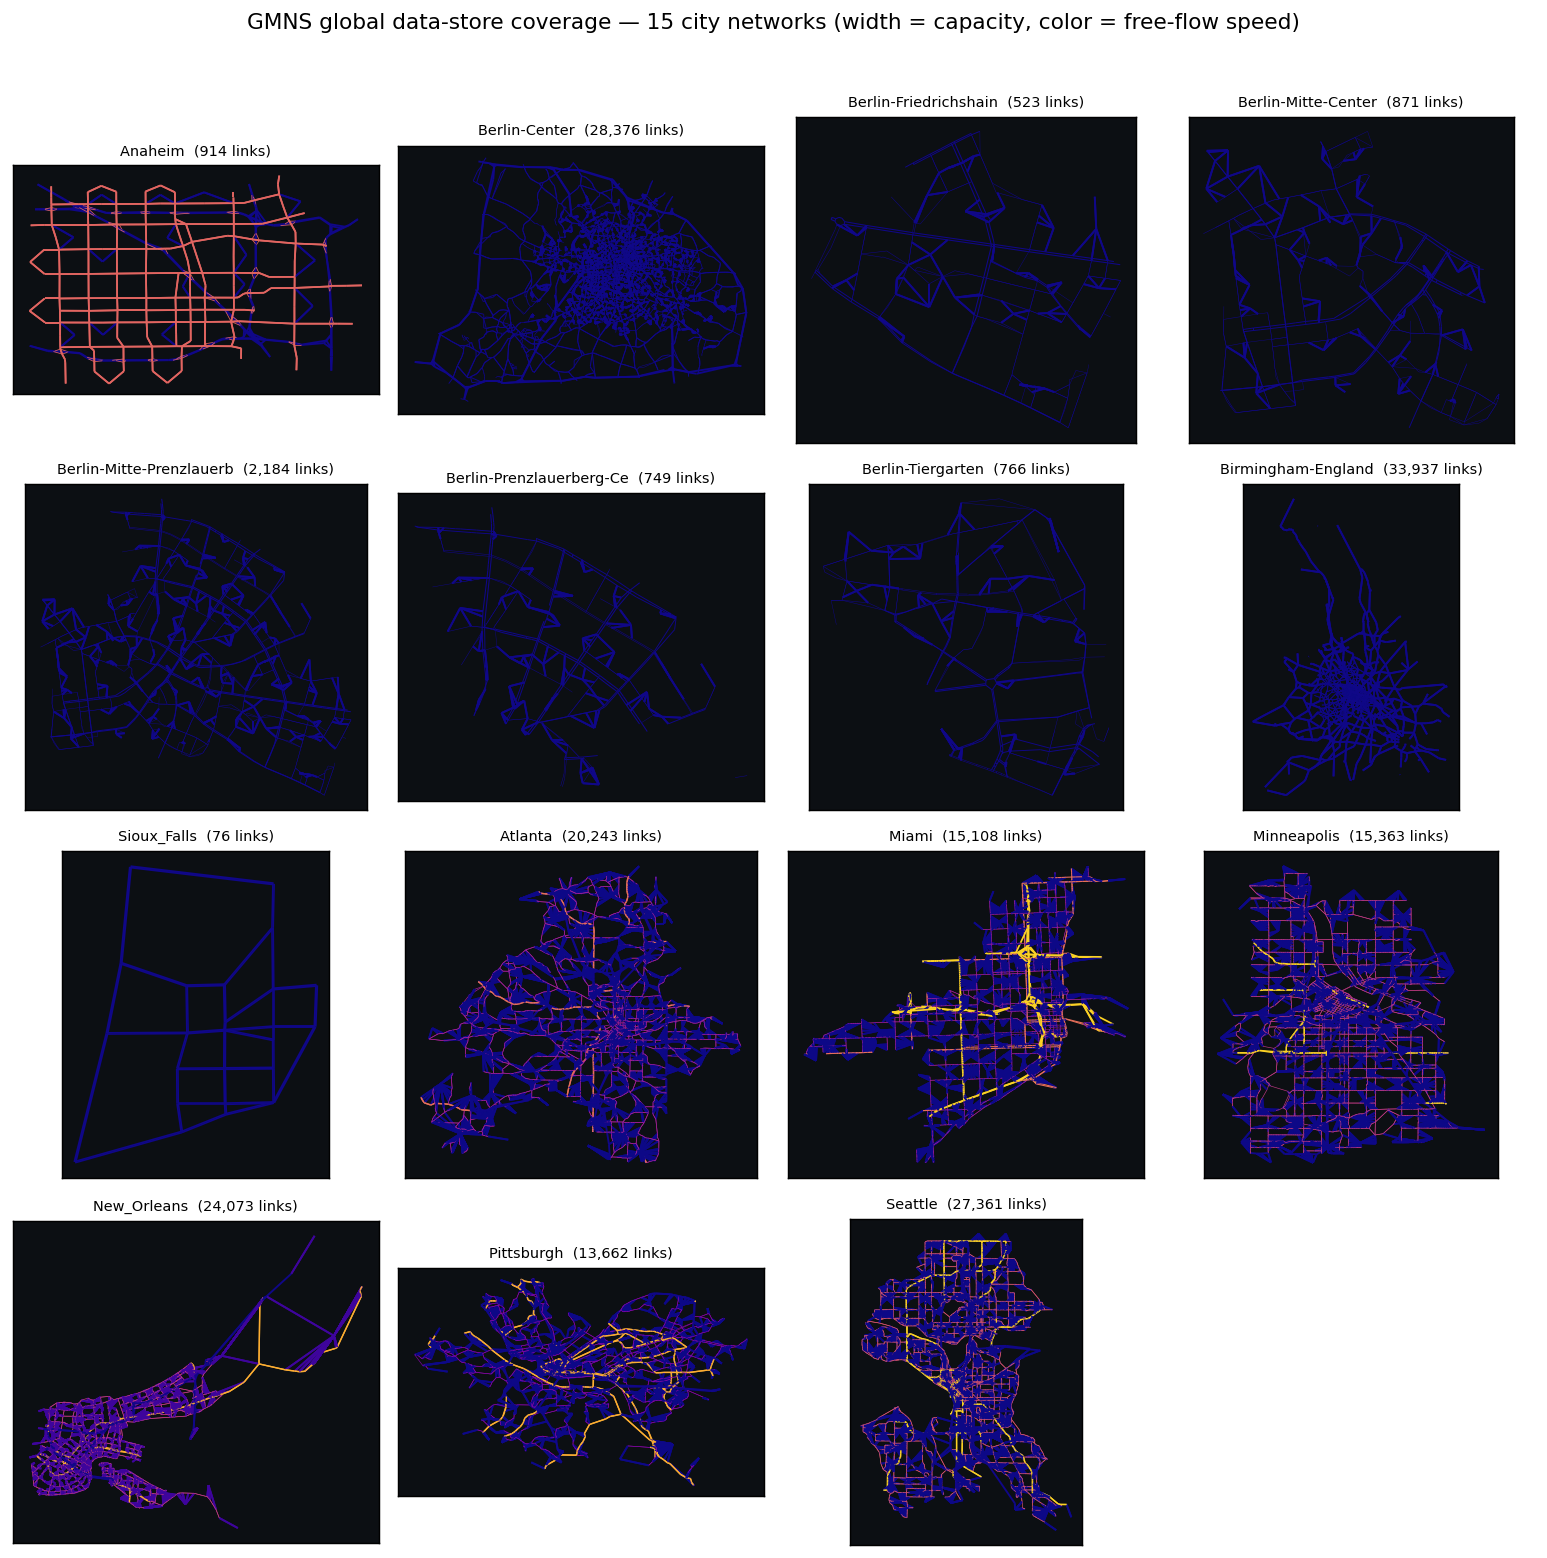
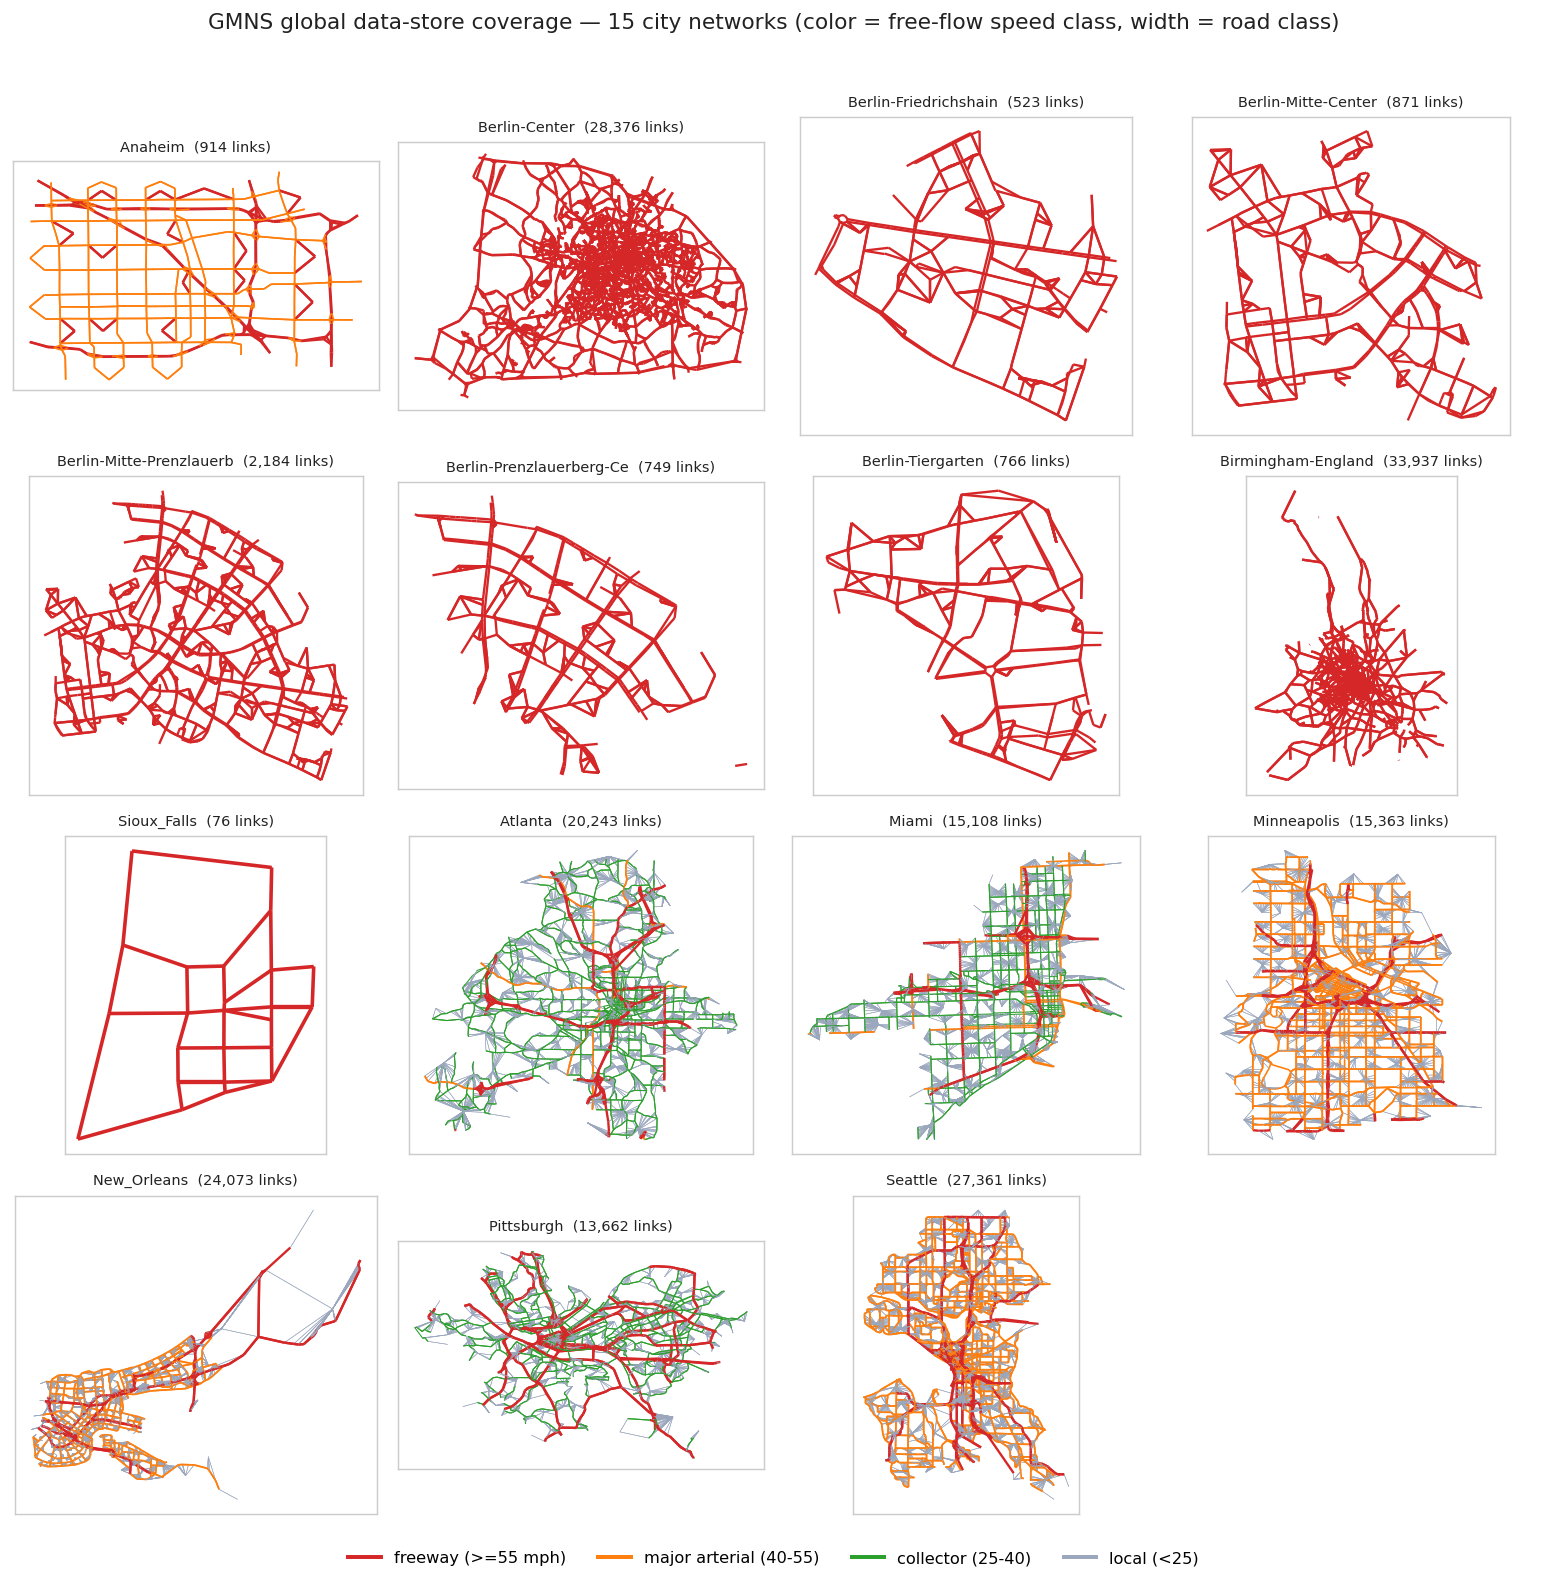
Montage: white background + plot4gmns-style categorical road-class colors
Global city coverage montage now uses a clean WHITE background (was dark) with
plot4gmns-style discrete free-speed classes (red freeway / orange arterial / green
collector / gray local) + a shared legend, per user. Interstate skeletons read clearly.

diff --git a/renderers/city_montage.py b/renderers/city_montage.py
@@ -32,20 +32,29 @@ def find_cities(store):
         if name not in seen: seen[name] = c
     return seen   # name -> dir
 
+# plot4gmns-style discrete free-speed classes (saturated, readable on a WHITE background)
+SPEED_CLASSES = [(55, "#d62728", 1.3, "freeway (>=55 mph)"),
+                 (40, "#ff7f0e", 0.9, "major arterial (40-55)"),
+                 (25, "#2ca02c", 0.6, "collector (25-40)"),
+                 (0,  "#9aa7bd", 0.3, "local (<25)")]
+def speed_class(s):
+    for thr, col, w, _ in SPEED_CLASSES:
+        if s >= thr: return col, w
+    return SPEED_CLASSES[-1][1], SPEED_CLASSES[-1][2]
+
 def read_links(d, cap_n):
-    segs, ws, sp = [], [], []
+    segs, ws, cs = [], [], []
     n = 0
     with open(os.path.join(d, "link.csv"), encoding="utf-8-sig") as f:
         for r in csv.DictReader(f):
             pts = re.findall(r"(-?\d+\.?\d*)\s+(-?\d+\.?\d*)", r.get("geometry") or "")
             if len(pts) < 2: continue
             segs.append([(float(x), float(y)) for x, y in pts])
-            cap = fnum(r.get("capacity") or 1000) * max(1, fnum(r.get("lanes") or 1))
-            ws.append(0.15 + 0.9 * min(1, cap / 6000))
-            sp.append(fnum(r.get("free_speed") or r.get("free_speed_mph") or 30))
+            s = fnum(r.get("free_speed") or r.get("free_speed_mph") or 30)
+            col, w = speed_class(s); cs.append(col); ws.append(w)
             n += 1
             if n >= cap_n: break
-    return segs, ws, sp
+    return segs, ws, cs
 
 def main():
     a = sys.argv[1:]
@@ -59,23 +68,27 @@ def main():
     names = list(cities)[:mx]
     print(f"store has {len(cities)} city networks; rendering {len(names)}")
     rows = math.ceil(len(names) / cols)
-    fig, axes = plt.subplots(rows, cols, figsize=(cols * 3.0, rows * 3.0), dpi=130)
+    fig, axes = plt.subplots(rows, cols, figsize=(cols * 3.0, rows * 3.0), dpi=130,
+                             facecolor="white")
     axes = np.array(axes).reshape(-1)
-    smin, smax = 15, 70
     for i, name in enumerate(names):
-        ax = axes[i]; segs, ws, sp = read_links(cities[name], cap_n)
+        ax = axes[i]; segs, ws, cs = read_links(cities[name], cap_n)
         if not segs:
             ax.set_title(name[:22], fontsize=8); ax.axis("off"); continue
-        cs = [plt.cm.plasma(max(0, min(1, (s - smin) / (smax - smin)))) for s in sp]
         ax.add_collection(LineCollection(segs, linewidths=ws, colors=cs))
-        ax.autoscale(); ax.set_aspect("equal"); ax.set_facecolor("#0c0f13")
+        ax.autoscale(); ax.set_aspect("equal"); ax.set_facecolor("white")
+        for sp in ax.spines.values(): sp.set_edgecolor("#cccccc")
         ax.set_xticks([]); ax.set_yticks([])
-        ax.set_title(f"{re.sub(r'^[0-9]+_','',name)[:24]}  ({len(segs):,} links)", fontsize=8)
+        ax.set_title(f"{re.sub(r'^[0-9]+_','',name)[:24]}  ({len(segs):,} links)", fontsize=8, color="#222")
     for j in range(len(names), len(axes)): axes[j].axis("off")
+    import matplotlib.lines as ml
+    leg = [ml.Line2D([], [], color=c, lw=2.2, label=lab) for _, c, _, lab in SPEED_CLASSES]
+    fig.legend(handles=leg, loc="lower center", ncol=4, fontsize=9, frameon=False,
+               bbox_to_anchor=(0.5, -0.01))
     fig.suptitle(f"GMNS global data-store coverage — {len(names)} city networks "
-                 f"(width = capacity, color = free-flow speed)", fontsize=12, y=0.995)
-    fig.tight_layout(rect=[0, 0, 1, 0.98]); fig.savefig(out, bbox_inches="tight"); plt.close(fig)
-    print("wrote", out)
+                 f"(color = free-flow speed class, width = road class)", fontsize=12, y=0.995, color="#222")
+    fig.tight_layout(rect=[0, 0.02, 1, 0.98]); fig.savefig(out, bbox_inches="tight", facecolor="white")
+    plt.close(fig); print("wrote", out)
 
 if __name__ == "__main__":
     main()